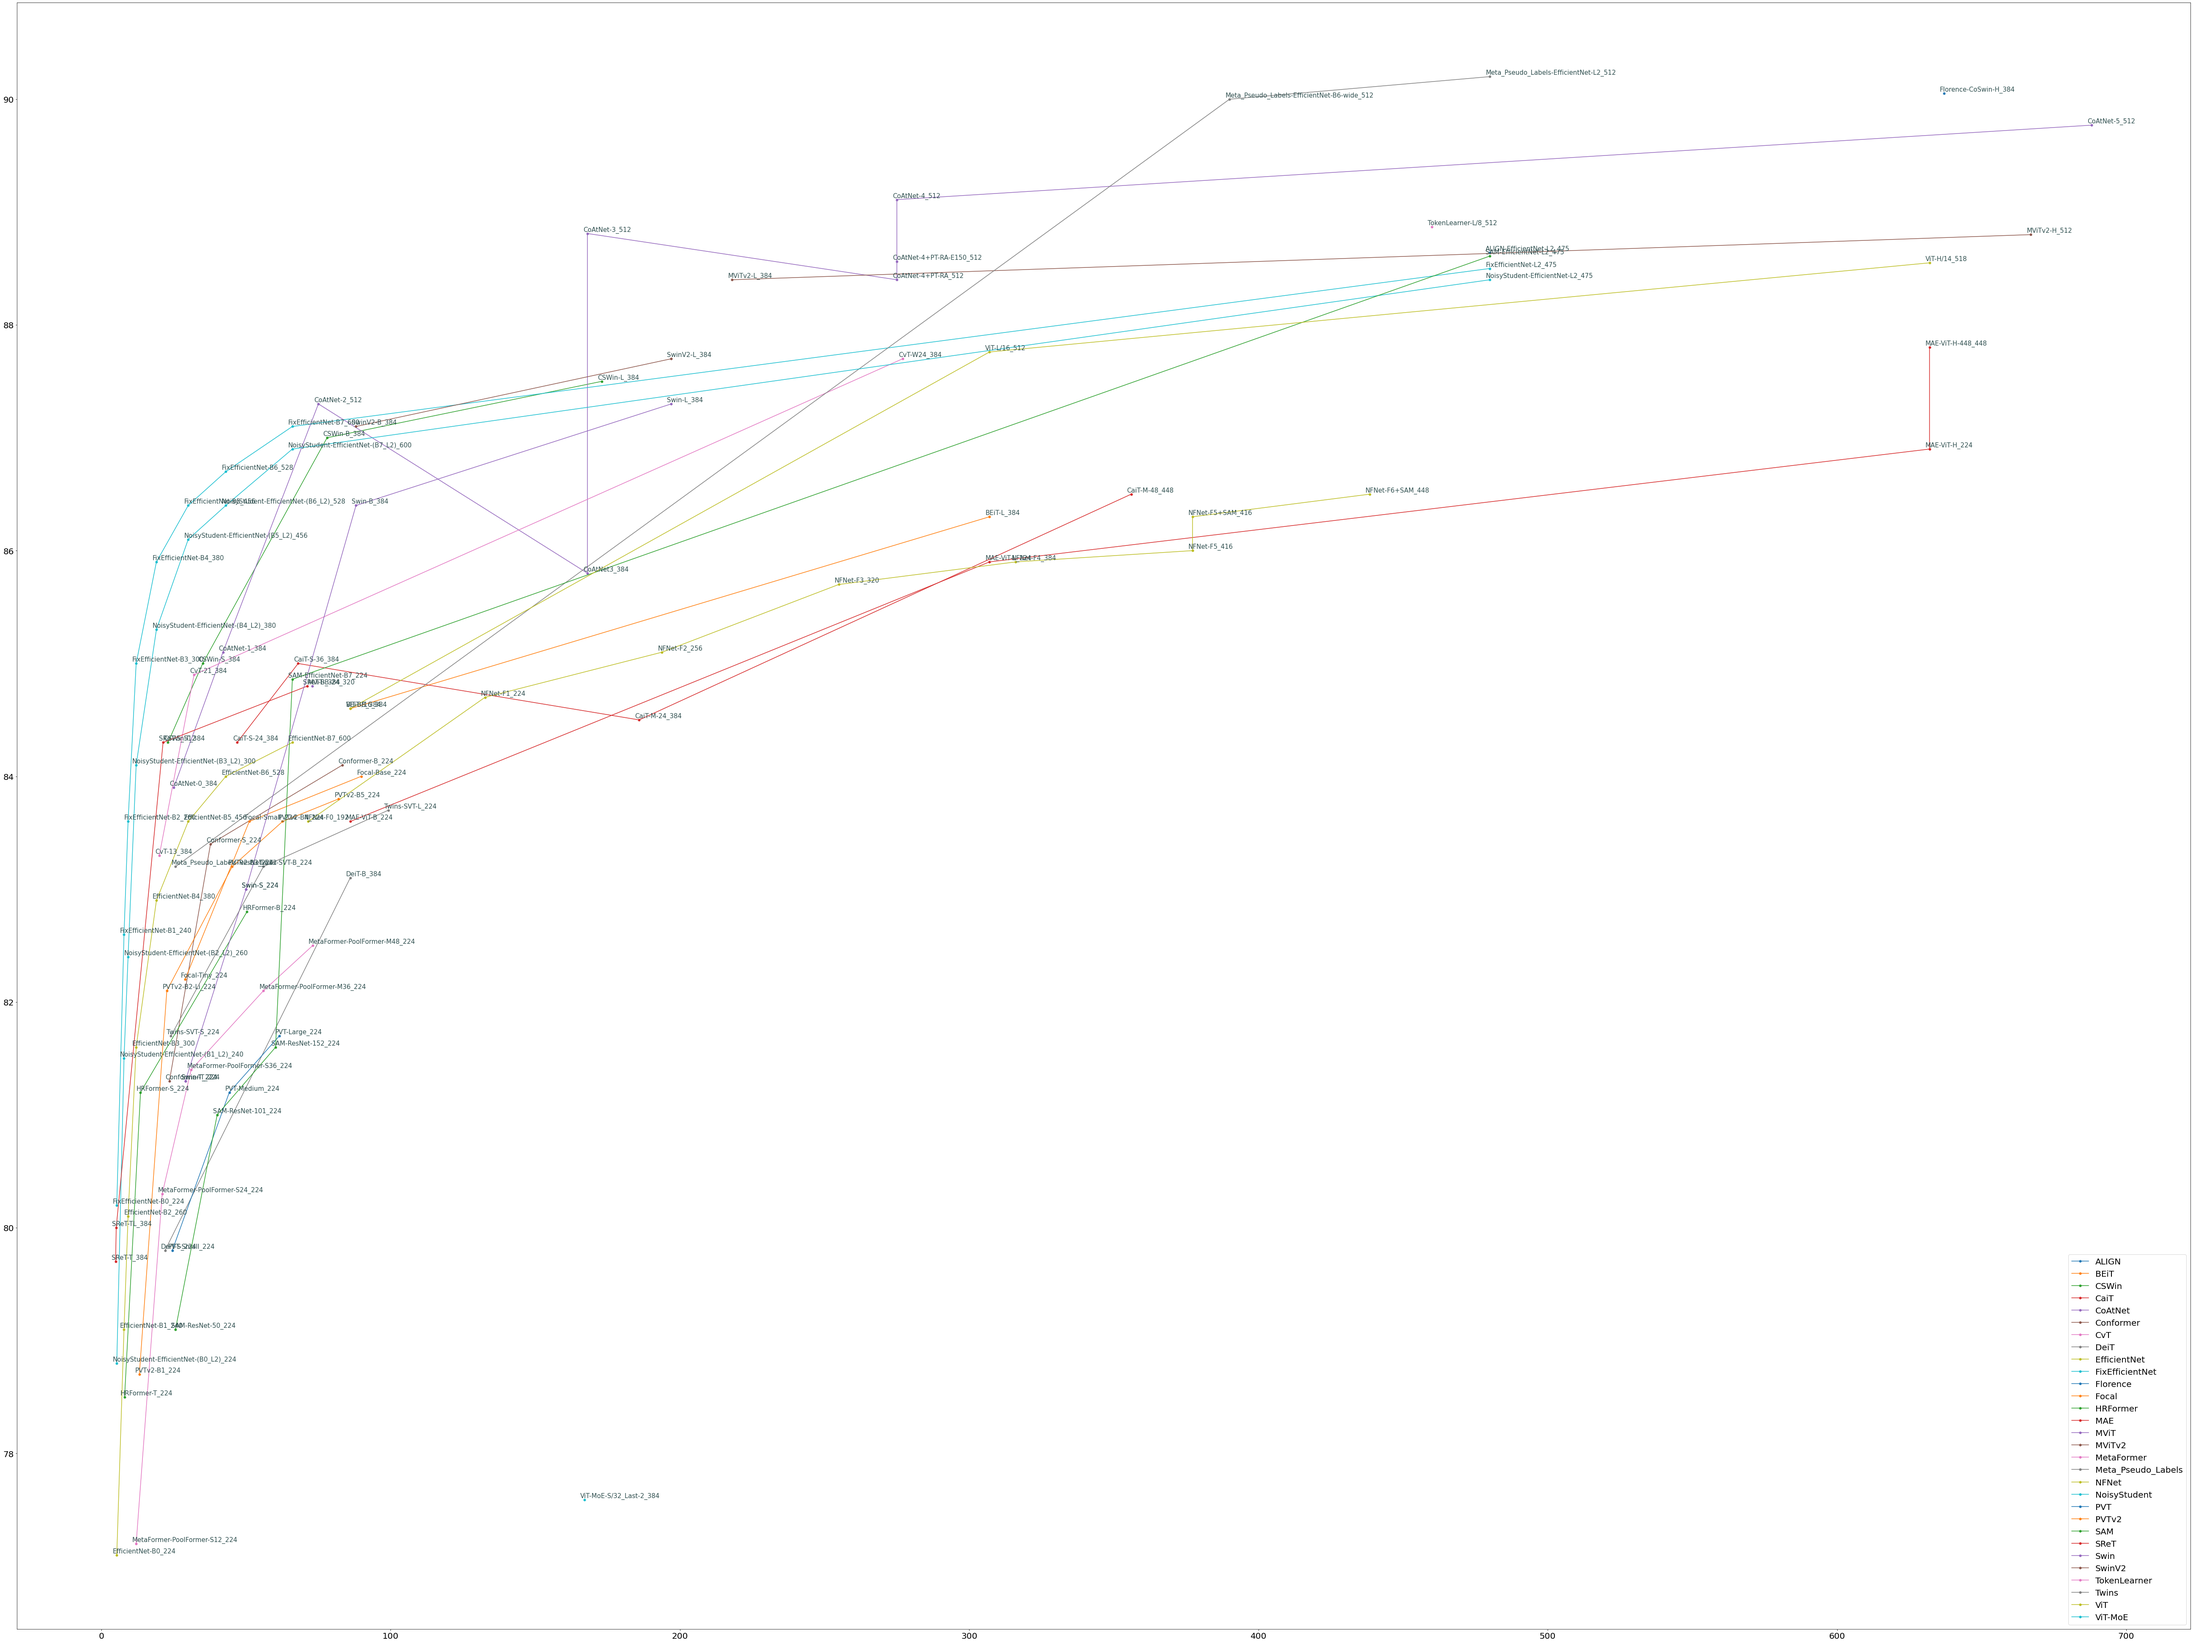
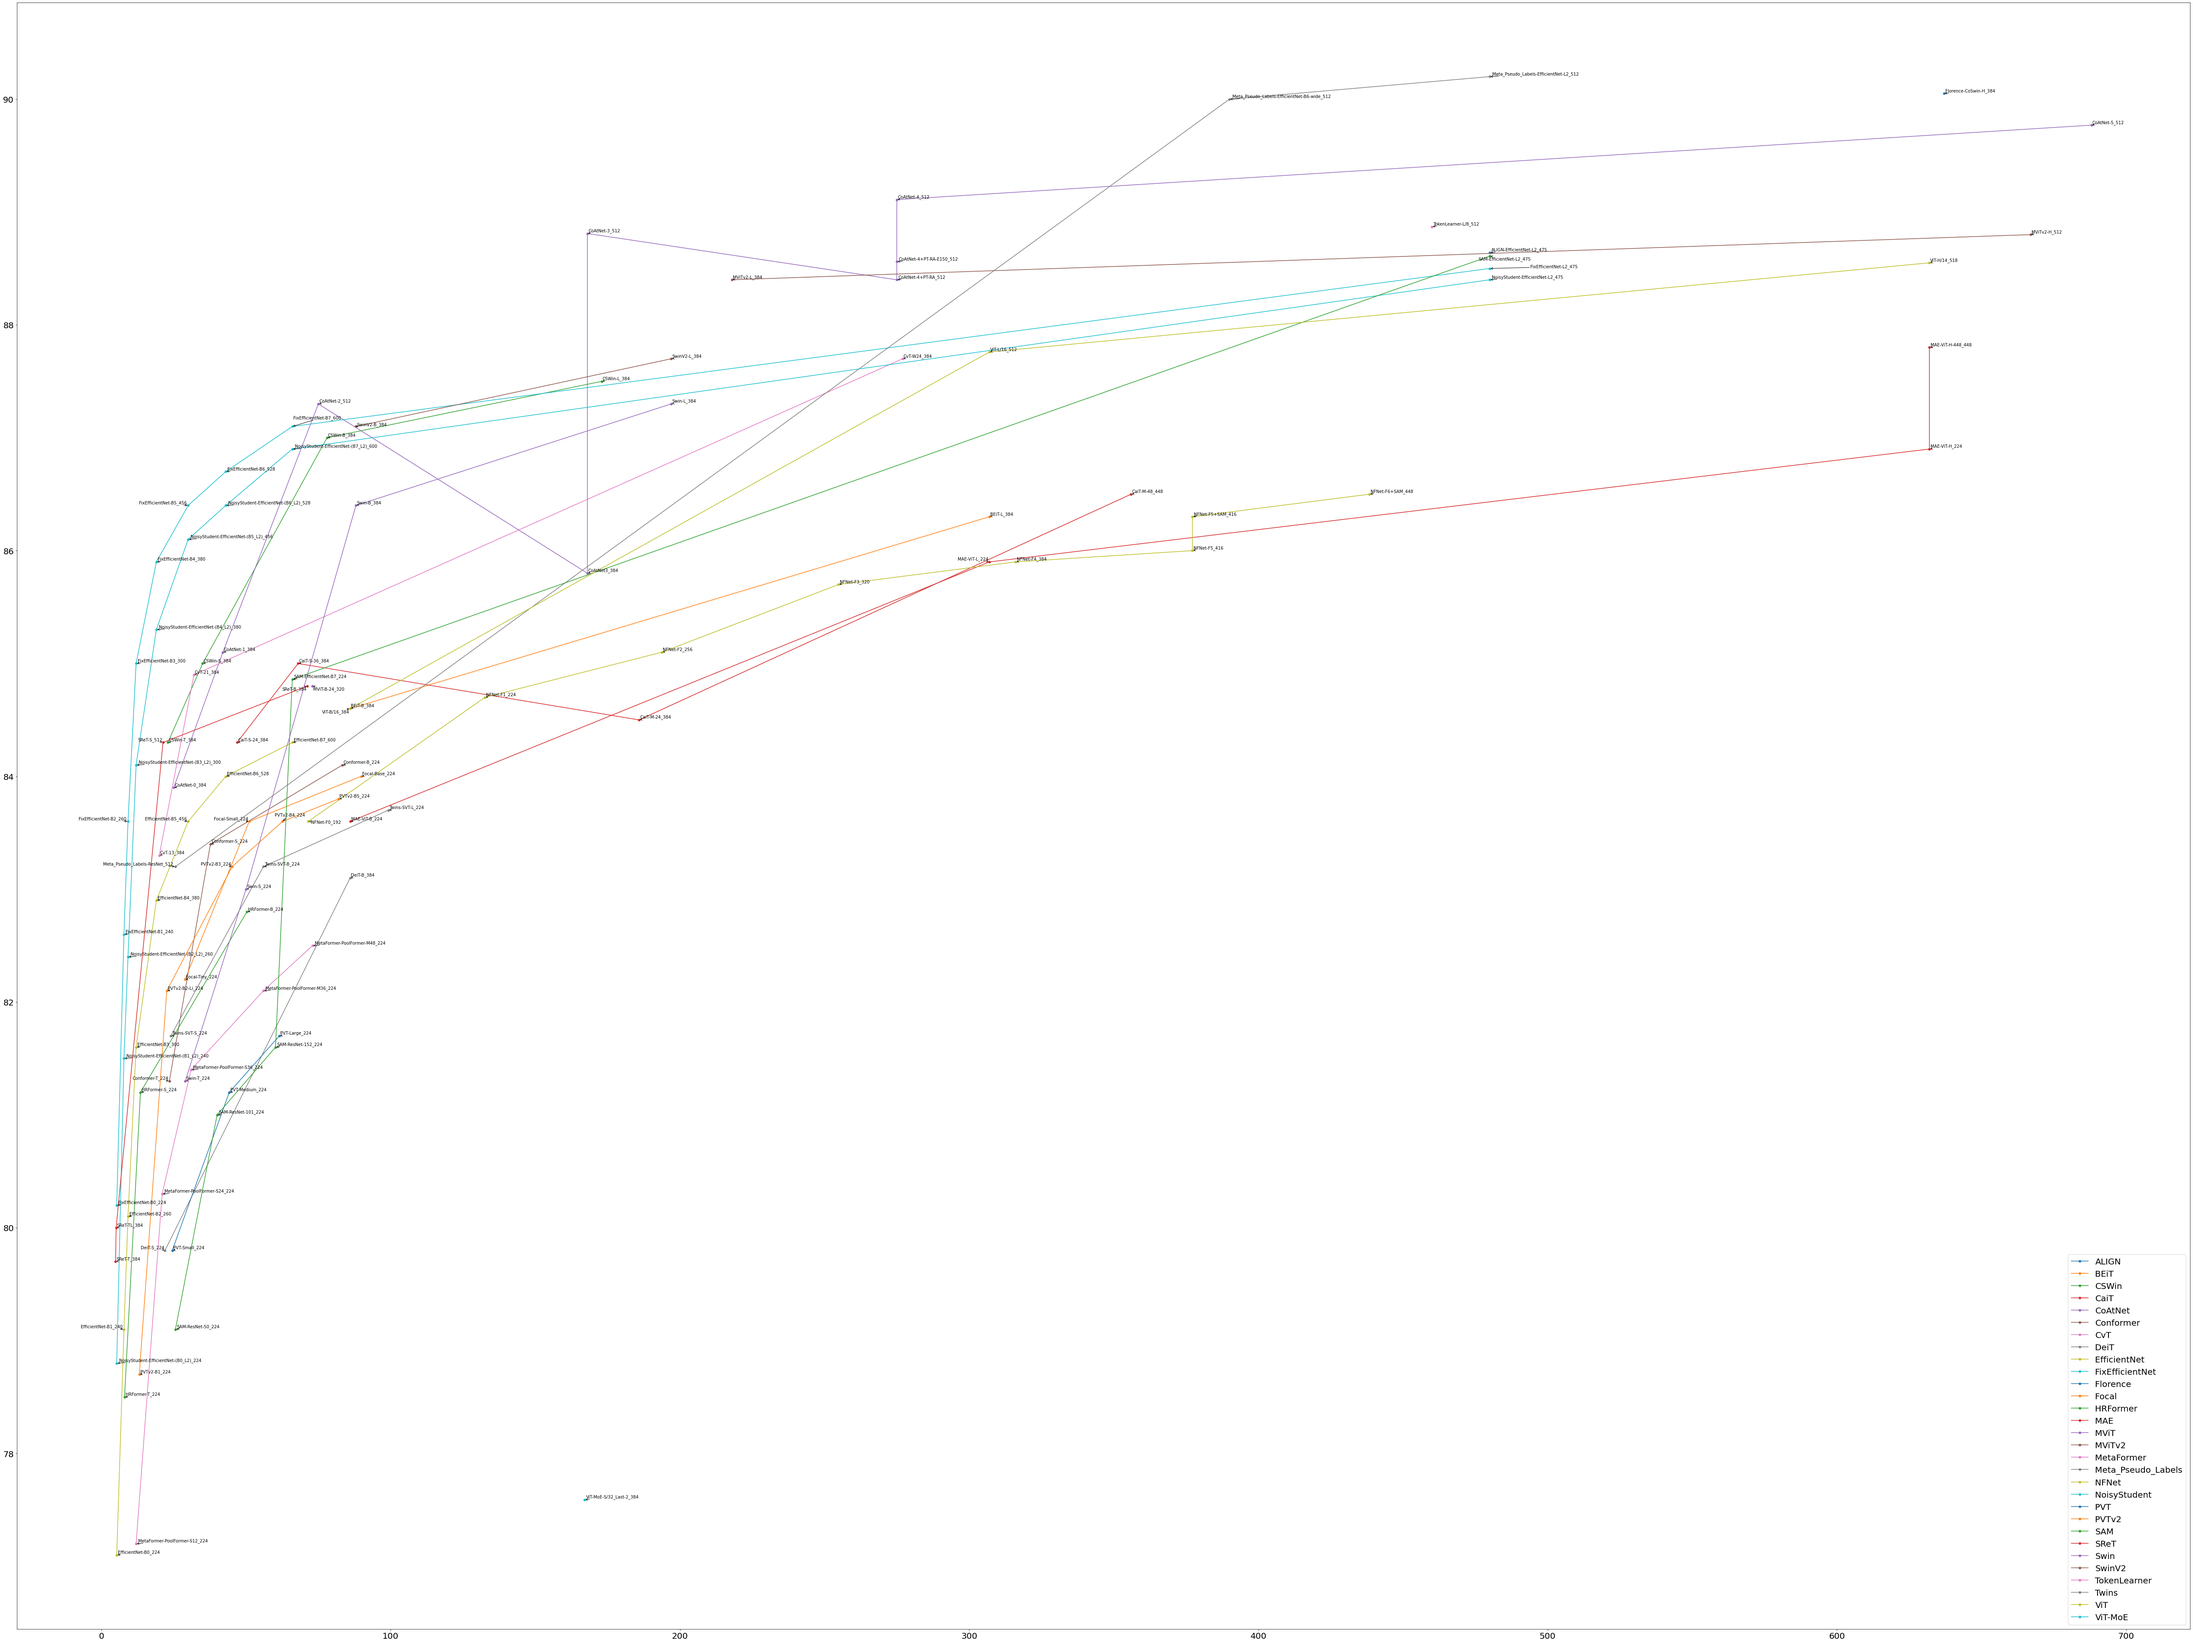
import adjustText

diff --git a/readme.md b/readme.md
@@ -4,9 +4,14 @@
 
 <img src="output.png" width="800">
 
+requirements
+
+- [adjustText](https://github.com/Phlya/adjustText)
+
 ```python
 import pandas as pd
 import matplotlib.pyplot as plt
+from adjustText import adjust_text
 data = pd.read_csv("backbone_performance.csv")
 
 # sort_values = "FLOPs(B)"
@@ -19,16 +24,18 @@ df = df[df[sort_values]<700]
 groups = df.groupby("Method")
 fig, ax = plt.subplots(figsize=(36.0, 27.0))
 ax.margins(0.05)
+texts = []
 for name, group in groups:
     group_max_idx = group.groupby(['Model'])['Acc'].transform(max) == group['Acc']
     group_t = group[group_max_idx]
     group_t = group_t.sort_values(sort_values)
     ax.plot(group_t[sort_values], group_t["Acc"], marker='o', linestyle='-', ms=5, label=name)
     for k, v in group_t.iterrows():
-        ax.annotate(v['Model']+"_"+str(v['Size']), [v[sort_values], v['Acc']],
-                    xytext=(-10,5), textcoords='offset points',
-                    family='sans-serif', fontsize=15, color='darkslategrey')
-
+        texts.append(ax.text(v[sort_values], v['Acc'], v['Model']+"_"+str(v['Size'])))
+        # ax.annotate(v['Model']+"_"+str(v['Size']), [v[sort_values], v['Acc']],
+        #             xytext=(-10,5), textcoords='offset points',
+        #             family='sans-serif', fontsize=15, color='darkslategrey')
+adjust_text(texts, arrowprops=dict(arrowstyle='->', color='black'))
 fig.tight_layout()
 plt.legend(fontsize=20,loc='lower right')
 plt.tick_params(labelsize=20)
